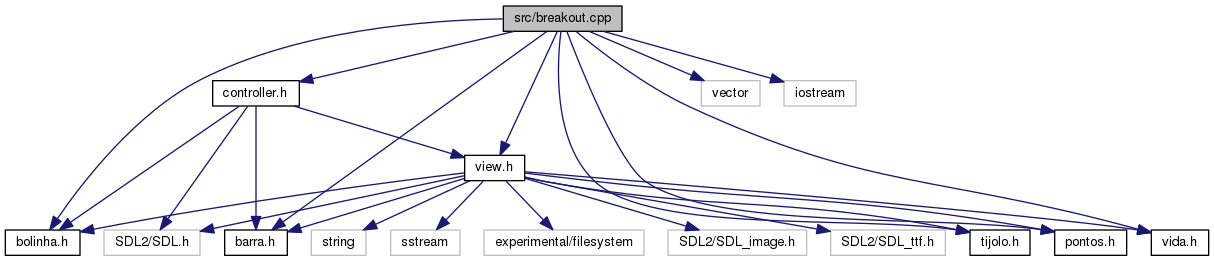
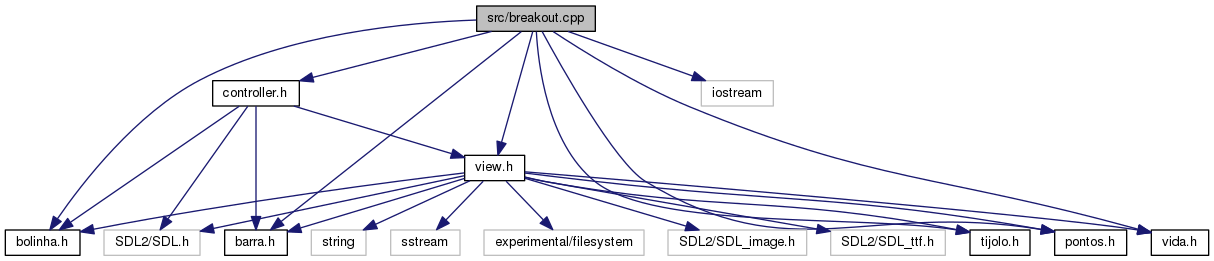
Atualiza o README

diff --git a/doc/html/view_8h_source.html b/doc/html/view_8h_source.html
@@ -91,12 +91,12 @@ var searchBox = new SearchBox("searchBox", "search",false,'Search');
 <a href="view_8h.html">Go to the documentation of this file.</a><div class="fragment"><div class="line"><a name="l00001"></a><span class="lineno">    1</span>&#160;<span class="preprocessor">#pragma once</span></div><div class="line"><a name="l00002"></a><span class="lineno">    2</span>&#160;</div><div class="line"><a name="l00003"></a><span class="lineno">    3</span>&#160;<span class="preprocessor">#include &lt;SDL2/SDL.h&gt;</span></div><div class="line"><a name="l00004"></a><span class="lineno">    4</span>&#160;<span class="preprocessor">#include &lt;SDL2/SDL_image.h&gt;</span></div><div class="line"><a name="l00005"></a><span class="lineno">    5</span>&#160;<span class="preprocessor">#include &lt;SDL2/SDL_ttf.h&gt;</span></div><div class="line"><a name="l00006"></a><span class="lineno">    6</span>&#160;<span class="preprocessor">#include &lt;string&gt;</span></div><div class="line"><a name="l00007"></a><span class="lineno">    7</span>&#160;<span class="preprocessor">#include &lt;sstream&gt;</span></div><div class="line"><a name="l00008"></a><span class="lineno">    8</span>&#160;<span class="preprocessor">#include &lt;experimental/filesystem&gt;</span></div><div class="line"><a name="l00009"></a><span class="lineno">    9</span>&#160;<span class="preprocessor">#include &quot;<a class="code" href="tijolo_8h.html">tijolo.h</a>&quot;</span></div><div class="line"><a name="l00010"></a><span class="lineno">   10</span>&#160;<span class="preprocessor">#include &quot;<a class="code" href="bolinha_8h.html">bolinha.h</a>&quot;</span></div><div class="line"><a name="l00011"></a><span class="lineno">   11</span>&#160;<span class="preprocessor">#include &quot;<a class="code" href="barra_8h.html">barra.h</a>&quot;</span></div><div class="line"><a name="l00012"></a><span class="lineno">   12</span>&#160;<span class="preprocessor">#include &quot;<a class="code" href="pontos_8h.html">pontos.h</a>&quot;</span></div><div class="line"><a name="l00013"></a><span class="lineno">   13</span>&#160;<span class="preprocessor">#include &quot;<a class="code" href="vida_8h.html">vida.h</a>&quot;</span></div><div class="line"><a name="l00014"></a><span class="lineno">   14</span>&#160;</div><div class="line"><a name="l00022"></a><span class="lineno"><a class="line" href="classview.html">   22</a></span>&#160;<span class="keyword">class </span><a class="code" href="classview.html">view</a>{</div><div class="line"><a name="l00023"></a><span class="lineno">   23</span>&#160;    <span class="keyword">private</span>:</div><div class="line"><a name="l00024"></a><span class="lineno">   24</span>&#160;        </div><div class="line"><a name="l00025"></a><span class="lineno"><a class="line" href="classview.html#a952fdfafefca2c0bfc8b17647a5706be">   25</a></span>&#160;        <a class="code" href="classtijolo.html">tijolo</a> *<a class="code" href="classview.html#a952fdfafefca2c0bfc8b17647a5706be">t</a>;      </div><div class="line"><a name="l00026"></a><span class="lineno"><a class="line" href="classview.html#a9d44d190dd69b906bfeaac4559ee454e">   26</a></span>&#160;        <a class="code" href="classbolinha.html">bolinha</a> *<a class="code" href="classview.html#a9d44d190dd69b906bfeaac4559ee454e">bo</a>;    </div><div class="line"><a name="l00027"></a><span class="lineno"><a class="line" href="classview.html#a0fd146110ca95e73f43c1dbda5a41294">   27</a></span>&#160;        <a class="code" href="classbarra.html">barra</a> *<a class="code" href="classview.html#a0fd146110ca95e73f43c1dbda5a41294">ba</a>;      </div><div class="line"><a name="l00028"></a><span class="lineno"><a class="line" href="classview.html#a8dc345a9799a79220ecca66c4cd3e8ff">   28</a></span>&#160;        <a class="code" href="classpontos.html">pontos</a>* <a class="code" href="classview.html#a8dc345a9799a79220ecca66c4cd3e8ff">po</a>;     </div><div class="line"><a name="l00029"></a><span class="lineno"><a class="line" href="classview.html#ae0f8e281f5f7937d84f435437ce03546">   29</a></span>&#160;        <a class="code" href="classvida.html">vida</a>* <a class="code" href="classview.html#ae0f8e281f5f7937d84f435437ce03546">v</a>;        </div><div class="line"><a name="l00031"></a><span class="lineno"><a class="line" href="classview.html#ade09c2dbabd1bf59ffaf625156c514f0">   31</a></span>&#160;        SDL_Window *<a class="code" href="classview.html#ade09c2dbabd1bf59ffaf625156c514f0">window</a>;</div><div class="line"><a name="l00032"></a><span class="lineno"><a class="line" href="classview.html#a8d7b3ec0a0641d24cdc3b04949f5df45">   32</a></span>&#160;        SDL_Renderer *<a class="code" href="classview.html#a8d7b3ec0a0641d24cdc3b04949f5df45">renderer</a>;</div><div class="line"><a name="l00033"></a><span class="lineno"><a class="line" href="classview.html#ae22fb0558e890ff6ace089b603e2d6d8">   33</a></span>&#160;        SDL_Rect <a class="code" href="classview.html#ae22fb0558e890ff6ace089b603e2d6d8">bloco</a>;</div><div class="line"><a name="l00034"></a><span class="lineno"><a class="line" href="classview.html#a49a628eedba666db008f8c07b96e3a51">   34</a></span>&#160;        SDL_Rect <a class="code" href="classview.html#a49a628eedba666db008f8c07b96e3a51">target</a>;</div><div class="line"><a name="l00035"></a><span class="lineno"><a class="line" href="classview.html#a72e360ef18105e2c565f17be3768027d">   35</a></span>&#160;        SDL_Rect <a class="code" href="classview.html#a72e360ef18105e2c565f17be3768027d">bol</a>;</div><div class="line"><a name="l00036"></a><span class="lineno"><a class="line" href="classview.html#a9c94bf9b55b5c24c5a9289d82a969ebb">   36</a></span>&#160;        SDL_Rect <a class="code" href="classview.html#a9c94bf9b55b5c24c5a9289d82a969ebb">bar</a>;</div><div class="line"><a name="l00037"></a><span class="lineno"><a class="line" href="classview.html#a6fd7fc350d9ad94dfd47e324b107e8ce">   37</a></span>&#160;        <span class="keyword">const</span> Uint8 *<a class="code" href="classview.html#a6fd7fc350d9ad94dfd47e324b107e8ce">state</a>;</div><div class="line"><a name="l00038"></a><span class="lineno"><a class="line" href="classview.html#ad17acebf948f7f42aa7cb8f88a38fe21">   38</a></span>&#160;        TTF_Font* <a class="code" href="classview.html#ad17acebf948f7f42aa7cb8f88a38fe21">Font</a>;</div><div class="line"><a name="l00039"></a><span class="lineno">   39</span>&#160;</div><div class="line"><a name="l00040"></a><span class="lineno"><a class="line" href="classview.html#af1b48d8a8f7f9e16800f9d842717ed2c">   40</a></span>&#160;        SDL_Rect <a class="code" href="classview.html#af1b48d8a8f7f9e16800f9d842717ed2c">Message_Vida_rect</a>;</div><div class="line"><a name="l00041"></a><span class="lineno"><a class="line" href="classview.html#aba853e73ed61ec0078ff6e56bb57e702">   41</a></span>&#160;        SDL_Rect <a class="code" href="classview.html#aba853e73ed61ec0078ff6e56bb57e702">Message_Fim_rect</a>;</div><div class="line"><a name="l00042"></a><span class="lineno"><a class="line" href="classview.html#ada3fc542a5e8b9d9e002665b37af781b">   42</a></span>&#160;        SDL_Rect <a class="code" href="classview.html#ada3fc542a5e8b9d9e002665b37af781b">Message_Pontos_rect</a>;</div><div class="line"><a name="l00043"></a><span class="lineno"><a class="line" href="classview.html#a1a7059536cb8e091ff7d4a4f2526bcce">   43</a></span>&#160;        SDL_Rect <a class="code" href="classview.html#a1a7059536cb8e091ff7d4a4f2526bcce">Message_VidaValue_rect</a>;</div><div class="line"><a name="l00044"></a><span class="lineno"><a class="line" href="classview.html#ade4cd2992600a54f7cb1f9f20876cd75">   44</a></span>&#160;        SDL_Rect <a class="code" href="classview.html#ade4cd2992600a54f7cb1f9f20876cd75">Message_PointValue_rect</a>;</div><div class="line"><a name="l00045"></a><span class="lineno">   45</span>&#160;</div><div class="line"><a name="l00046"></a><span class="lineno">   46</span>&#160;</div><div class="line"><a name="l00047"></a><span class="lineno">   47</span>&#160;</div><div class="line"><a name="l00048"></a><span class="lineno">   48</span>&#160;</div><div class="line"><a name="l00049"></a><span class="lineno">   49</span>&#160;</div><div class="line"><a name="l00050"></a><span class="lineno">   50</span>&#160;    <span class="keyword">public</span>:</div><div class="line"><a name="l00061"></a><span class="lineno">   61</span>&#160;        <a class="code" href="classview.html#a95b782bfe0890878f5740f63d7cd89ba">view</a>(<a class="code" href="classtijolo.html">tijolo</a>* t_, <a class="code" href="classbarra.html">barra</a>* ba_, <a class="code" href="classbolinha.html">bolinha</a>* bo_, <a class="code" href="classpontos.html">pontos</a>* po_, <a class="code" href="classvida.html">vida</a>* v_);</div><div class="line"><a name="l00062"></a><span class="lineno">   62</span>&#160;</div><div class="line"><a name="l00076"></a><span class="lineno">   76</span>&#160;        <span class="keywordtype">void</span> <a class="code" href="classview.html#afa73cff596b36c7009ee17383d039750">render_text</a>(SDL_Renderer *renderer,<span class="keywordtype">int</span> x, <span class="keywordtype">int</span> y,<span class="keyword">const</span> <span class="keywordtype">char</span> *text,TTF_Font *font,SDL_Rect *rect,SDL_Color *color);</div><div class="line"><a name="l00077"></a><span class="lineno">   77</span>&#160;</div><div class="line"><a name="l00082"></a><span class="lineno">   82</span>&#160;        <span class="keywordtype">int</span> <a class="code" href="classview.html#a21d953772b41dd9c08c9ea9895e002d7">init</a>();</div><div class="line"><a name="l00083"></a><span class="lineno">   83</span>&#160;</div><div class="line"><a name="l00088"></a><span class="lineno">   88</span>&#160;        <span class="keywordtype">void</span> <a class="code" href="classview.html#a91e9b24e39a9846a7093949c9a19a118">render</a>();</div><div class="line"><a name="l00089"></a><span class="lineno">   89</span>&#160;</div><div class="line"><a name="l00094"></a><span class="lineno">   94</span>&#160;        <span class="keywordtype">void</span> <a class="code" href="classview.html#ad8c046a243e52ee4f902abec6fbec9bb">quit</a>();</div><div class="line"><a name="l00095"></a><span class="lineno">   95</span>&#160;</div><div class="line"><a name="l00100"></a><span class="lineno">  100</span>&#160;        <span class="keywordtype">void</span> <a class="code" href="classview.html#a1839c52cc61779be195b51e4fddcb659">perdeu</a>();</div><div class="line"><a name="l00101"></a><span class="lineno">  101</span>&#160;</div><div class="line"><a name="l00106"></a><span class="lineno">  106</span>&#160;        <span class="keywordtype">void</span> <a class="code" href="classview.html#abbf5bc2a4455e61eb8155f8256a5d870">ganhou</a>();</div><div class="line"><a name="l00107"></a><span class="lineno">  107</span>&#160;</div><div class="line"><a name="l00114"></a><span class="lineno">  114</span>&#160;        <span class="keywordtype">int</span> <a class="code" href="classview.html#a257d50065961954053fbf5402b2e2968">quantidadeTijolos</a>();</div><div class="line"><a name="l00115"></a><span class="lineno">  115</span>&#160;</div><div class="line"><a name="l00116"></a><span class="lineno">  116</span>&#160;        SDL_Rect* <a class="code" href="classview.html#a4bf37f4171f4bb15c0e5b4ab8c2a9faa">getTarget</a>();</div><div class="line"><a name="l00117"></a><span class="lineno">  117</span>&#160;        SDL_Rect* <a class="code" href="classview.html#a8b12f1f06de39d6e9f70f54a9281e05c">getBloco</a>();</div><div class="line"><a name="l00118"></a><span class="lineno">  118</span>&#160;        SDL_Rect* <a class="code" href="classview.html#a8eb9d89d9b55a5d2ee529c96e0dc246a">getBolinha</a>();</div><div class="line"><a name="l00119"></a><span class="lineno">  119</span>&#160;        SDL_Rect* <a class="code" href="classview.html#a57b60e5da21e0484081d71c69ba4d03e">getBarra</a>();</div><div class="line"><a name="l00120"></a><span class="lineno">  120</span>&#160;        <a class="code" href="classtijolo.html">tijolo</a>* <a class="code" href="classview.html#ab159a52c699a49119e7dfd78384af275">getTijolos</a>();</div><div class="line"><a name="l00121"></a><span class="lineno">  121</span>&#160;        <a class="code" href="classpontos.html">pontos</a>* <a class="code" href="classview.html#a6cd53aa4df2642579992803a18f0bc8b">getPonto</a>();</div><div class="line"><a name="l00122"></a><span class="lineno">  122</span>&#160;        <a class="code" href="classvida.html">vida</a>* <a class="code" href="classview.html#aa33f3e6bf59ada95ee9fd0bff5af22c0">getVida</a>();</div><div class="line"><a name="l00123"></a><span class="lineno">  123</span>&#160;        <span class="keywordtype">int</span> <a class="code" href="classview.html#aba1c490d357bb58f4aa9218cb96b42b0">getWidth</a>();</div><div class="line"><a name="l00124"></a><span class="lineno">  124</span>&#160;        <span class="keywordtype">int</span> <a class="code" href="classview.html#af2cf0c4a4d7cd84f0155ae1ad6a51d0a">getHeigth</a>();</div><div class="line"><a name="l00125"></a><span class="lineno">  125</span>&#160;        <span class="keyword">const</span> Uint8* <a class="code" href="classview.html#a5dd0f6c8f5d5f9123353986607c7fb77">getState</a>();</div><div class="line"><a name="l00126"></a><span class="lineno">  126</span>&#160;</div><div class="line"><a name="l00127"></a><span class="lineno">  127</span>&#160;};</div><div class="ttc" id="classview_html_a9d44d190dd69b906bfeaac4559ee454e"><div class="ttname"><a href="classview.html#a9d44d190dd69b906bfeaac4559ee454e">view::bo</a></div><div class="ttdeci">bolinha * bo</div><div class="ttdef"><b>Definition:</b> view.h:26</div></div>
 <div class="ttc" id="classview_html_ade09c2dbabd1bf59ffaf625156c514f0"><div class="ttname"><a href="classview.html#ade09c2dbabd1bf59ffaf625156c514f0">view::window</a></div><div class="ttdeci">SDL_Window * window</div><div class="ttdef"><b>Definition:</b> view.h:31</div></div>
 <div class="ttc" id="classview_html_ab159a52c699a49119e7dfd78384af275"><div class="ttname"><a href="classview.html#ab159a52c699a49119e7dfd78384af275">view::getTijolos</a></div><div class="ttdeci">tijolo * getTijolos()</div><div class="ttdef"><b>Definition:</b> view.cpp:29</div></div>
-<div class="ttc" id="classview_html_ad8c046a243e52ee4f902abec6fbec9bb"><div class="ttname"><a href="classview.html#ad8c046a243e52ee4f902abec6fbec9bb">view::quit</a></div><div class="ttdeci">void quit()</div><div class="ttdoc">Encerramento. </div><div class="ttdef"><b>Definition:</b> view.cpp:218</div></div>
+<div class="ttc" id="classview_html_ad8c046a243e52ee4f902abec6fbec9bb"><div class="ttname"><a href="classview.html#ad8c046a243e52ee4f902abec6fbec9bb">view::quit</a></div><div class="ttdeci">void quit()</div><div class="ttdoc">Encerramento. </div><div class="ttdef"><b>Definition:</b> view.cpp:266</div></div>
 <div class="ttc" id="classview_html_a8dc345a9799a79220ecca66c4cd3e8ff"><div class="ttname"><a href="classview.html#a8dc345a9799a79220ecca66c4cd3e8ff">view::po</a></div><div class="ttdeci">pontos * po</div><div class="ttdef"><b>Definition:</b> view.h:28</div></div>
 <div class="ttc" id="classview_html_a0fd146110ca95e73f43c1dbda5a41294"><div class="ttname"><a href="classview.html#a0fd146110ca95e73f43c1dbda5a41294">view::ba</a></div><div class="ttdeci">barra * ba</div><div class="ttdef"><b>Definition:</b> view.h:27</div></div>
 <div class="ttc" id="classview_html_ada3fc542a5e8b9d9e002665b37af781b"><div class="ttname"><a href="classview.html#ada3fc542a5e8b9d9e002665b37af781b">view::Message_Pontos_rect</a></div><div class="ttdeci">SDL_Rect Message_Pontos_rect</div><div class="ttdef"><b>Definition:</b> view.h:42</div></div>
 <div class="ttc" id="classpontos_html"><div class="ttname"><a href="classpontos.html">pontos</a></div><div class="ttdoc">Classe para os pontos. </div><div class="ttdef"><b>Definition:</b> pontos.h:8</div></div>
-<div class="ttc" id="classview_html_a91e9b24e39a9846a7093949c9a19a118"><div class="ttname"><a href="classview.html#a91e9b24e39a9846a7093949c9a19a118">view::render</a></div><div class="ttdeci">void render()</div><div class="ttdoc">Renderizacao. </div><div class="ttdef"><b>Definition:</b> view.cpp:151</div></div>
+<div class="ttc" id="classview_html_a91e9b24e39a9846a7093949c9a19a118"><div class="ttname"><a href="classview.html#a91e9b24e39a9846a7093949c9a19a118">view::render</a></div><div class="ttdeci">void render()</div><div class="ttdoc">Renderizacao. </div><div class="ttdef"><b>Definition:</b> view.cpp:160</div></div>
 <div class="ttc" id="classview_html_a95b782bfe0890878f5740f63d7cd89ba"><div class="ttname"><a href="classview.html#a95b782bfe0890878f5740f63d7cd89ba">view::view</a></div><div class="ttdeci">view(tijolo *t_, barra *ba_, bolinha *bo_, pontos *po_, vida *v_)</div><div class="ttdoc">Construtor do view. </div><div class="ttdef"><b>Definition:</b> view.cpp:23</div></div>
 <div class="ttc" id="classview_html_af2cf0c4a4d7cd84f0155ae1ad6a51d0a"><div class="ttname"><a href="classview.html#af2cf0c4a4d7cd84f0155ae1ad6a51d0a">view::getHeigth</a></div><div class="ttdeci">int getHeigth()</div><div class="ttdef"><b>Definition:</b> view.cpp:35</div></div>
 <div class="ttc" id="classview_html_ad17acebf948f7f42aa7cb8f88a38fe21"><div class="ttname"><a href="classview.html#ad17acebf948f7f42aa7cb8f88a38fe21">view::Font</a></div><div class="ttdeci">TTF_Font * Font</div><div class="ttdef"><b>Definition:</b> view.h:38</div></div>
@@ -104,21 +104,21 @@ var searchBox = new SearchBox("searchBox", "search",false,'Search');
 <div class="ttc" id="classview_html_a8b12f1f06de39d6e9f70f54a9281e05c"><div class="ttname"><a href="classview.html#a8b12f1f06de39d6e9f70f54a9281e05c">view::getBloco</a></div><div class="ttdeci">SDL_Rect * getBloco()</div><div class="ttdef"><b>Definition:</b> view.cpp:26</div></div>
 <div class="ttc" id="classview_html_a8eb9d89d9b55a5d2ee529c96e0dc246a"><div class="ttname"><a href="classview.html#a8eb9d89d9b55a5d2ee529c96e0dc246a">view::getBolinha</a></div><div class="ttdeci">SDL_Rect * getBolinha()</div><div class="ttdef"><b>Definition:</b> view.cpp:27</div></div>
 <div class="ttc" id="classview_html_a1a7059536cb8e091ff7d4a4f2526bcce"><div class="ttname"><a href="classview.html#a1a7059536cb8e091ff7d4a4f2526bcce">view::Message_VidaValue_rect</a></div><div class="ttdeci">SDL_Rect Message_VidaValue_rect</div><div class="ttdef"><b>Definition:</b> view.h:43</div></div>
-<div class="ttc" id="classview_html_afa73cff596b36c7009ee17383d039750"><div class="ttname"><a href="classview.html#afa73cff596b36c7009ee17383d039750">view::render_text</a></div><div class="ttdeci">void render_text(SDL_Renderer *renderer, int x, int y, const char *text, TTF_Font *font, SDL_Rect *rect, SDL_Color *color)</div><div class="ttdoc">Renderiza um texto. </div><div class="ttdef"><b>Definition:</b> view.cpp:226</div></div>
+<div class="ttc" id="classview_html_afa73cff596b36c7009ee17383d039750"><div class="ttname"><a href="classview.html#afa73cff596b36c7009ee17383d039750">view::render_text</a></div><div class="ttdeci">void render_text(SDL_Renderer *renderer, int x, int y, const char *text, TTF_Font *font, SDL_Rect *rect, SDL_Color *color)</div><div class="ttdoc">Renderiza um texto. </div><div class="ttdef"><b>Definition:</b> view.cpp:230</div></div>
 <div class="ttc" id="vida_8h_html"><div class="ttname"><a href="vida_8h.html">vida.h</a></div></div>
 <div class="ttc" id="bolinha_8h_html"><div class="ttname"><a href="bolinha_8h.html">bolinha.h</a></div></div>
-<div class="ttc" id="classview_html_abbf5bc2a4455e61eb8155f8256a5d870"><div class="ttname"><a href="classview.html#abbf5bc2a4455e61eb8155f8256a5d870">view::ganhou</a></div><div class="ttdeci">void ganhou()</div><div class="ttdoc">Vitoria. </div><div class="ttdef"><b>Definition:</b> view.cpp:204</div></div>
+<div class="ttc" id="classview_html_abbf5bc2a4455e61eb8155f8256a5d870"><div class="ttname"><a href="classview.html#abbf5bc2a4455e61eb8155f8256a5d870">view::ganhou</a></div><div class="ttdeci">void ganhou()</div><div class="ttdoc">Vitoria. </div><div class="ttdef"><b>Definition:</b> view.cpp:216</div></div>
 <div class="ttc" id="classbarra_html"><div class="ttname"><a href="classbarra.html">barra</a></div><div class="ttdoc">Classe para a barra. </div><div class="ttdef"><b>Definition:</b> barra.h:11</div></div>
 <div class="ttc" id="classvida_html"><div class="ttname"><a href="classvida.html">vida</a></div><div class="ttdoc">Classe para os pontos. </div><div class="ttdef"><b>Definition:</b> vida.h:8</div></div>
 <div class="ttc" id="classview_html_a49a628eedba666db008f8c07b96e3a51"><div class="ttname"><a href="classview.html#a49a628eedba666db008f8c07b96e3a51">view::target</a></div><div class="ttdeci">SDL_Rect target</div><div class="ttdef"><b>Definition:</b> view.h:34</div></div>
 <div class="ttc" id="classview_html_aba853e73ed61ec0078ff6e56bb57e702"><div class="ttname"><a href="classview.html#aba853e73ed61ec0078ff6e56bb57e702">view::Message_Fim_rect</a></div><div class="ttdeci">SDL_Rect Message_Fim_rect</div><div class="ttdef"><b>Definition:</b> view.h:41</div></div>
-<div class="ttc" id="classview_html_a257d50065961954053fbf5402b2e2968"><div class="ttname"><a href="classview.html#a257d50065961954053fbf5402b2e2968">view::quantidadeTijolos</a></div><div class="ttdeci">int quantidadeTijolos()</div><div class="ttdoc">Tijolos na tela. </div><div class="ttdef"><b>Definition:</b> view.cpp:252</div></div>
+<div class="ttc" id="classview_html_a257d50065961954053fbf5402b2e2968"><div class="ttname"><a href="classview.html#a257d50065961954053fbf5402b2e2968">view::quantidadeTijolos</a></div><div class="ttdeci">int quantidadeTijolos()</div><div class="ttdoc">Tijolos na tela. </div><div class="ttdef"><b>Definition:</b> view.cpp:255</div></div>
 <div class="ttc" id="classview_html_a5dd0f6c8f5d5f9123353986607c7fb77"><div class="ttname"><a href="classview.html#a5dd0f6c8f5d5f9123353986607c7fb77">view::getState</a></div><div class="ttdeci">const Uint8 * getState()</div><div class="ttdef"><b>Definition:</b> view.cpp:38</div></div>
 <div class="ttc" id="classview_html_ae0f8e281f5f7937d84f435437ce03546"><div class="ttname"><a href="classview.html#ae0f8e281f5f7937d84f435437ce03546">view::v</a></div><div class="ttdeci">vida * v</div><div class="ttdef"><b>Definition:</b> view.h:29</div></div>
 <div class="ttc" id="classtijolo_html"><div class="ttname"><a href="classtijolo.html">tijolo</a></div><div class="ttdoc">Classe para os pontos. </div><div class="ttdef"><b>Definition:</b> tijolo.h:8</div></div>
 <div class="ttc" id="classview_html_ae22fb0558e890ff6ace089b603e2d6d8"><div class="ttname"><a href="classview.html#ae22fb0558e890ff6ace089b603e2d6d8">view::bloco</a></div><div class="ttdeci">SDL_Rect bloco</div><div class="ttdef"><b>Definition:</b> view.h:33</div></div>
 <div class="ttc" id="classbolinha_html"><div class="ttname"><a href="classbolinha.html">bolinha</a></div><div class="ttdoc">Classe para a bolinha. </div><div class="ttdef"><b>Definition:</b> bolinha.h:11</div></div>
-<div class="ttc" id="classview_html_a21d953772b41dd9c08c9ea9895e002d7"><div class="ttname"><a href="classview.html#a21d953772b41dd9c08c9ea9895e002d7">view::init</a></div><div class="ttdeci">int init()</div><div class="ttdoc">Rotina de inicializacao. </div><div class="ttdef"><b>Definition:</b> view.cpp:40</div></div>
+<div class="ttc" id="classview_html_a21d953772b41dd9c08c9ea9895e002d7"><div class="ttname"><a href="classview.html#a21d953772b41dd9c08c9ea9895e002d7">view::init</a></div><div class="ttdeci">int init()</div><div class="ttdoc">Rotina de inicializacao. </div><div class="ttdef"><b>Definition:</b> view.cpp:42</div></div>
 <div class="ttc" id="pontos_8h_html"><div class="ttname"><a href="pontos_8h.html">pontos.h</a></div></div>
 <div class="ttc" id="classview_html_a952fdfafefca2c0bfc8b17647a5706be"><div class="ttname"><a href="classview.html#a952fdfafefca2c0bfc8b17647a5706be">view::t</a></div><div class="ttdeci">tijolo * t</div><div class="ttdef"><b>Definition:</b> view.h:25</div></div>
 <div class="ttc" id="classview_html_a9c94bf9b55b5c24c5a9289d82a969ebb"><div class="ttname"><a href="classview.html#a9c94bf9b55b5c24c5a9289d82a969ebb">view::bar</a></div><div class="ttdeci">SDL_Rect bar</div><div class="ttdef"><b>Definition:</b> view.h:36</div></div>
@@ -131,7 +131,7 @@ var searchBox = new SearchBox("searchBox", "search",false,'Search');
 <div class="ttc" id="tijolo_8h_html"><div class="ttname"><a href="tijolo_8h.html">tijolo.h</a></div></div>
 <div class="ttc" id="classview_html_a57b60e5da21e0484081d71c69ba4d03e"><div class="ttname"><a href="classview.html#a57b60e5da21e0484081d71c69ba4d03e">view::getBarra</a></div><div class="ttdeci">SDL_Rect * getBarra()</div><div class="ttdef"><b>Definition:</b> view.cpp:28</div></div>
 <div class="ttc" id="classview_html_a8d7b3ec0a0641d24cdc3b04949f5df45"><div class="ttname"><a href="classview.html#a8d7b3ec0a0641d24cdc3b04949f5df45">view::renderer</a></div><div class="ttdeci">SDL_Renderer * renderer</div><div class="ttdef"><b>Definition:</b> view.h:32</div></div>
-<div class="ttc" id="classview_html_a1839c52cc61779be195b51e4fddcb659"><div class="ttname"><a href="classview.html#a1839c52cc61779be195b51e4fddcb659">view::perdeu</a></div><div class="ttdeci">void perdeu()</div><div class="ttdoc">Derrota. </div><div class="ttdef"><b>Definition:</b> view.cpp:189</div></div>
+<div class="ttc" id="classview_html_a1839c52cc61779be195b51e4fddcb659"><div class="ttname"><a href="classview.html#a1839c52cc61779be195b51e4fddcb659">view::perdeu</a></div><div class="ttdeci">void perdeu()</div><div class="ttdoc">Derrota. </div><div class="ttdef"><b>Definition:</b> view.cpp:203</div></div>
 <div class="ttc" id="classview_html_af1b48d8a8f7f9e16800f9d842717ed2c"><div class="ttname"><a href="classview.html#af1b48d8a8f7f9e16800f9d842717ed2c">view::Message_Vida_rect</a></div><div class="ttdeci">SDL_Rect Message_Vida_rect</div><div class="ttdef"><b>Definition:</b> view.h:40</div></div>
 <div class="ttc" id="classview_html"><div class="ttname"><a href="classview.html">view</a></div><div class="ttdoc">Classe para o view. </div><div class="ttdef"><b>Definition:</b> view.h:22</div></div>
 <div class="ttc" id="classview_html_a72e360ef18105e2c565f17be3768027d"><div class="ttname"><a href="classview.html#a72e360ef18105e2c565f17be3768027d">view::bol</a></div><div class="ttdeci">SDL_Rect bol</div><div class="ttdef"><b>Definition:</b> view.h:35</div></div>

diff --git a/doc/html/controller_8h_source.html b/doc/html/controller_8h_source.html
@@ -90,18 +90,18 @@ var searchBox = new SearchBox("searchBox", "search",false,'Search');
 <div class="contents">
 <a href="controller_8h.html">Go to the documentation of this file.</a><div class="fragment"><div class="line"><a name="l00001"></a><span class="lineno">    1</span>&#160;<span class="preprocessor">#pragma once</span></div><div class="line"><a name="l00002"></a><span class="lineno">    2</span>&#160;<span class="preprocessor">#include &quot;<a class="code" href="barra_8h.html">barra.h</a>&quot;</span></div><div class="line"><a name="l00003"></a><span class="lineno">    3</span>&#160;<span class="preprocessor">#include &quot;<a class="code" href="view_8h.html">view.h</a>&quot;</span></div><div class="line"><a name="l00004"></a><span class="lineno">    4</span>&#160;<span class="preprocessor">#include &quot;<a class="code" href="bolinha_8h.html">bolinha.h</a>&quot;</span></div><div class="line"><a name="l00005"></a><span class="lineno">    5</span>&#160;<span class="preprocessor">#include &lt;SDL2/SDL.h&gt;</span></div><div class="line"><a name="l00006"></a><span class="lineno">    6</span>&#160;</div><div class="line"><a name="l00016"></a><span class="lineno"><a class="line" href="classcontroller.html">   16</a></span>&#160;<span class="keyword">class </span><a class="code" href="classcontroller.html">controller</a>{</div><div class="line"><a name="l00017"></a><span class="lineno">   17</span>&#160;    </div><div class="line"><a name="l00018"></a><span class="lineno">   18</span>&#160;    <span class="keyword">private</span>:</div><div class="line"><a name="l00019"></a><span class="lineno"><a class="line" href="classcontroller.html#a6ff845413a797ed4beff34d3cb6b7774">   19</a></span>&#160;        <a class="code" href="classview.html">view</a> &amp;<a class="code" href="classcontroller.html#a6ff845413a797ed4beff34d3cb6b7774">v</a>;        </div><div class="line"><a name="l00020"></a><span class="lineno"><a class="line" href="classcontroller.html#af46499f5a9ef1afc0c95d899fb128aa1">   20</a></span>&#160;        <a class="code" href="classbarra.html">barra</a>* <a class="code" href="classcontroller.html#af46499f5a9ef1afc0c95d899fb128aa1">ba</a>;      </div><div class="line"><a name="l00021"></a><span class="lineno"><a class="line" href="classcontroller.html#ae3e29aaa568c3d374b65416fd49649c5">   21</a></span>&#160;        <a class="code" href="classbolinha.html">bolinha</a>* <a class="code" href="classcontroller.html#ae3e29aaa568c3d374b65416fd49649c5">bo</a>;    </div><div class="line"><a name="l00022"></a><span class="lineno"><a class="line" href="classcontroller.html#ab7bee2a38038001992ab877caccc1a47">   22</a></span>&#160;        <span class="keywordtype">int</span> <a class="code" href="classcontroller.html#ab7bee2a38038001992ab877caccc1a47">dirX</a> = 5;   </div><div class="line"><a name="l00023"></a><span class="lineno"><a class="line" href="classcontroller.html#a136888a5f98296f5266a01330e2881e7">   23</a></span>&#160;        <span class="keywordtype">int</span> <a class="code" href="classcontroller.html#a136888a5f98296f5266a01330e2881e7">dirY</a> = 5;   </div><div class="line"><a name="l00024"></a><span class="lineno"><a class="line" href="classcontroller.html#ae1229353be5404b8decda1e8775292c4">   24</a></span>&#160;        <span class="keywordtype">int</span> <a class="code" href="classcontroller.html#ae1229353be5404b8decda1e8775292c4">veloc</a> = 10; </div><div class="line"><a name="l00026"></a><span class="lineno">   26</span>&#160;    <span class="keyword">public</span>:</div><div class="line"><a name="l00035"></a><span class="lineno"><a class="line" href="classcontroller.html#a5179368251d444a67542bf506ffa6b9c">   35</a></span>&#160;        <a class="code" href="classcontroller.html#a5179368251d444a67542bf506ffa6b9c">controller</a>(<a class="code" href="classview.html">view</a> &amp;v_, <a class="code" href="classbarra.html">barra</a>* ba_, <a class="code" href="classbolinha.html">bolinha</a>* bo_): ba(ba_), v(v_), bo(bo_){}</div><div class="line"><a name="l00036"></a><span class="lineno">   36</span>&#160;</div><div class="line"><a name="l00041"></a><span class="lineno">   41</span>&#160;        <span class="keywordtype">void</span> <a class="code" href="classcontroller.html#ac0373785a91924ce3d480c1c7dedbd99">update</a>();</div><div class="line"><a name="l00042"></a><span class="lineno">   42</span>&#160;</div><div class="line"><a name="l00049"></a><span class="lineno">   49</span>&#160;        <span class="keywordtype">bool</span> <a class="code" href="classcontroller.html#aaaef2bd34f643183bcd6fad64bea1005">colisaoBarra</a>();</div><div class="line"><a name="l00050"></a><span class="lineno">   50</span>&#160;</div><div class="line"><a name="l00058"></a><span class="lineno">   58</span>&#160;        <span class="keywordtype">bool</span> <a class="code" href="classcontroller.html#ac227dd1b72111d1c6da3362d60aa25d6">colisaoBloco</a>();</div><div class="line"><a name="l00059"></a><span class="lineno">   59</span>&#160;</div><div class="line"><a name="l00067"></a><span class="lineno">   67</span>&#160;        <span class="keywordtype">void</span> <a class="code" href="classcontroller.html#a03872ff488ab704038e14226a8e031ea">start</a>();</div><div class="line"><a name="l00068"></a><span class="lineno">   68</span>&#160;</div><div class="line"><a name="l00076"></a><span class="lineno">   76</span>&#160;        <span class="keywordtype">bool</span> <a class="code" href="classcontroller.html#a993c5fe7272f0435b4018f4b5d1fc1cb">finish</a>();</div><div class="line"><a name="l00077"></a><span class="lineno">   77</span>&#160;};</div><div class="ttc" id="classcontroller_html"><div class="ttname"><a href="classcontroller.html">controller</a></div><div class="ttdoc">Classe para o controller. </div><div class="ttdef"><b>Definition:</b> controller.h:16</div></div>
 <div class="ttc" id="classcontroller_html_ae1229353be5404b8decda1e8775292c4"><div class="ttname"><a href="classcontroller.html#ae1229353be5404b8decda1e8775292c4">controller::veloc</a></div><div class="ttdeci">int veloc</div><div class="ttdef"><b>Definition:</b> controller.h:24</div></div>
-<div class="ttc" id="classcontroller_html_a993c5fe7272f0435b4018f4b5d1fc1cb"><div class="ttname"><a href="classcontroller.html#a993c5fe7272f0435b4018f4b5d1fc1cb">controller::finish</a></div><div class="ttdeci">bool finish()</div><div class="ttdoc">Finaliza o jogo. </div><div class="ttdef"><b>Definition:</b> controller.cpp:166</div></div>
+<div class="ttc" id="classcontroller_html_a993c5fe7272f0435b4018f4b5d1fc1cb"><div class="ttname"><a href="classcontroller.html#a993c5fe7272f0435b4018f4b5d1fc1cb">controller::finish</a></div><div class="ttdeci">bool finish()</div><div class="ttdoc">Finaliza o jogo. </div><div class="ttdef"><b>Definition:</b> controller.cpp:165</div></div>
 <div class="ttc" id="classcontroller_html_af46499f5a9ef1afc0c95d899fb128aa1"><div class="ttname"><a href="classcontroller.html#af46499f5a9ef1afc0c95d899fb128aa1">controller::ba</a></div><div class="ttdeci">barra * ba</div><div class="ttdef"><b>Definition:</b> controller.h:20</div></div>
 <div class="ttc" id="classcontroller_html_ae3e29aaa568c3d374b65416fd49649c5"><div class="ttname"><a href="classcontroller.html#ae3e29aaa568c3d374b65416fd49649c5">controller::bo</a></div><div class="ttdeci">bolinha * bo</div><div class="ttdef"><b>Definition:</b> controller.h:21</div></div>
-<div class="ttc" id="classcontroller_html_aaaef2bd34f643183bcd6fad64bea1005"><div class="ttname"><a href="classcontroller.html#aaaef2bd34f643183bcd6fad64bea1005">controller::colisaoBarra</a></div><div class="ttdeci">bool colisaoBarra()</div><div class="ttdoc">Colisao barra/bolinha. </div><div class="ttdef"><b>Definition:</b> controller.cpp:70</div></div>
+<div class="ttc" id="classcontroller_html_aaaef2bd34f643183bcd6fad64bea1005"><div class="ttname"><a href="classcontroller.html#aaaef2bd34f643183bcd6fad64bea1005">controller::colisaoBarra</a></div><div class="ttdeci">bool colisaoBarra()</div><div class="ttdoc">Colisao barra/bolinha. </div><div class="ttdef"><b>Definition:</b> controller.cpp:78</div></div>
 <div class="ttc" id="bolinha_8h_html"><div class="ttname"><a href="bolinha_8h.html">bolinha.h</a></div></div>
 <div class="ttc" id="view_8h_html"><div class="ttname"><a href="view_8h.html">view.h</a></div></div>
 <div class="ttc" id="classbarra_html"><div class="ttname"><a href="classbarra.html">barra</a></div><div class="ttdoc">Classe para a barra. </div><div class="ttdef"><b>Definition:</b> barra.h:11</div></div>
 <div class="ttc" id="classcontroller_html_ac0373785a91924ce3d480c1c7dedbd99"><div class="ttname"><a href="classcontroller.html#ac0373785a91924ce3d480c1c7dedbd99">controller::update</a></div><div class="ttdeci">void update()</div><div class="ttdoc">Metodo de acao. </div><div class="ttdef"><b>Definition:</b> controller.cpp:4</div></div>
 <div class="ttc" id="classcontroller_html_ab7bee2a38038001992ab877caccc1a47"><div class="ttname"><a href="classcontroller.html#ab7bee2a38038001992ab877caccc1a47">controller::dirX</a></div><div class="ttdeci">int dirX</div><div class="ttdef"><b>Definition:</b> controller.h:22</div></div>
 <div class="ttc" id="classcontroller_html_a5179368251d444a67542bf506ffa6b9c"><div class="ttname"><a href="classcontroller.html#a5179368251d444a67542bf506ffa6b9c">controller::controller</a></div><div class="ttdeci">controller(view &amp;v_, barra *ba_, bolinha *bo_)</div><div class="ttdoc">Construtor do controller. </div><div class="ttdef"><b>Definition:</b> controller.h:35</div></div>
-<div class="ttc" id="classcontroller_html_a03872ff488ab704038e14226a8e031ea"><div class="ttname"><a href="classcontroller.html#a03872ff488ab704038e14226a8e031ea">controller::start</a></div><div class="ttdeci">void start()</div><div class="ttdoc">Inicia o jogo. </div><div class="ttdef"><b>Definition:</b> controller.cpp:159</div></div>
-<div class="ttc" id="classcontroller_html_ac227dd1b72111d1c6da3362d60aa25d6"><div class="ttname"><a href="classcontroller.html#ac227dd1b72111d1c6da3362d60aa25d6">controller::colisaoBloco</a></div><div class="ttdeci">bool colisaoBloco()</div><div class="ttdoc">Colisao blocos/bolinha. </div><div class="ttdef"><b>Definition:</b> controller.cpp:105</div></div>
+<div class="ttc" id="classcontroller_html_a03872ff488ab704038e14226a8e031ea"><div class="ttname"><a href="classcontroller.html#a03872ff488ab704038e14226a8e031ea">controller::start</a></div><div class="ttdeci">void start()</div><div class="ttdoc">Inicia o jogo. </div><div class="ttdef"><b>Definition:</b> controller.cpp:156</div></div>
+<div class="ttc" id="classcontroller_html_ac227dd1b72111d1c6da3362d60aa25d6"><div class="ttname"><a href="classcontroller.html#ac227dd1b72111d1c6da3362d60aa25d6">controller::colisaoBloco</a></div><div class="ttdeci">bool colisaoBloco()</div><div class="ttdoc">Colisao blocos/bolinha. </div><div class="ttdef"><b>Definition:</b> controller.cpp:107</div></div>
 <div class="ttc" id="classbolinha_html"><div class="ttname"><a href="classbolinha.html">bolinha</a></div><div class="ttdoc">Classe para a bolinha. </div><div class="ttdef"><b>Definition:</b> bolinha.h:11</div></div>
 <div class="ttc" id="classcontroller_html_a136888a5f98296f5266a01330e2881e7"><div class="ttname"><a href="classcontroller.html#a136888a5f98296f5266a01330e2881e7">controller::dirY</a></div><div class="ttdeci">int dirY</div><div class="ttdef"><b>Definition:</b> controller.h:23</div></div>
 <div class="ttc" id="barra_8h_html"><div class="ttname"><a href="barra_8h.html">barra.h</a></div></div>

diff --git a/doc/html/breakout_8cpp.html b/doc/html/breakout_8cpp.html
@@ -97,7 +97,6 @@ var searchBox = new SearchBox("searchBox", "search",false,'Search');
 <code>#include &quot;<a class="el" href="barra_8h_source.html">barra.h</a>&quot;</code><br />
 <code>#include &quot;<a class="el" href="pontos_8h_source.html">pontos.h</a>&quot;</code><br />
 <code>#include &quot;<a class="el" href="vida_8h_source.html">vida.h</a>&quot;</code><br />
-<code>#include &lt;vector&gt;</code><br />
 <code>#include &lt;iostream&gt;</code><br />
 </div><div class="textblock"><div class="dynheader">
 Include dependency graph for breakout.cpp:</div>

diff --git a/doc/html/classbolinha.html b/doc/html/classbolinha.html
@@ -98,8 +98,6 @@ var searchBox = new SearchBox("searchBox", "search",false,'Search');
 Collaboration diagram for bolinha:</div>
 <div class="dyncontent">
 <div class="center"><img src="classbolinha__coll__graph.png" border="0" usemap="#bolinha_coll__map" alt="Collaboration graph"/></div>
-<map name="bolinha_coll__map" id="bolinha_coll__map">
-</map>
 </div>
 <table class="memberdecls">
 <tr class="heading"><td colspan="2"><h2 class="groupheader"><a name="pub-methods"></a>

diff --git a/doc/html/classpontos.html b/doc/html/classpontos.html
@@ -98,8 +98,6 @@ var searchBox = new SearchBox("searchBox", "search",false,'Search');
 Collaboration diagram for pontos:</div>
 <div class="dyncontent">
 <div class="center"><img src="classpontos__coll__graph.png" border="0" usemap="#pontos_coll__map" alt="Collaboration graph"/></div>
-<map name="pontos_coll__map" id="pontos_coll__map">
-</map>
 </div>
 <table class="memberdecls">
 <tr class="heading"><td colspan="2"><h2 class="groupheader"><a name="pub-methods"></a>

diff --git a/doc/html/classtijolo.html b/doc/html/classtijolo.html
@@ -98,8 +98,6 @@ var searchBox = new SearchBox("searchBox", "search",false,'Search');
 Collaboration diagram for tijolo:</div>
 <div class="dyncontent">
 <div class="center"><img src="classtijolo__coll__graph.png" border="0" usemap="#tijolo_coll__map" alt="Collaboration graph"/></div>
-<map name="tijolo_coll__map" id="tijolo_coll__map">
-</map>
 </div>
 <table class="memberdecls">
 <tr class="heading"><td colspan="2"><h2 class="groupheader"><a name="pub-methods"></a>

diff --git a/doc/html/classbarra.html b/doc/html/classbarra.html
@@ -98,8 +98,6 @@ var searchBox = new SearchBox("searchBox", "search",false,'Search');
 Collaboration diagram for barra:</div>
 <div class="dyncontent">
 <div class="center"><img src="classbarra__coll__graph.png" border="0" usemap="#barra_coll__map" alt="Collaboration graph"/></div>
-<map name="barra_coll__map" id="barra_coll__map">
-</map>
 </div>
 <table class="memberdecls">
 <tr class="heading"><td colspan="2"><h2 class="groupheader"><a name="pub-methods"></a>

diff --git a/doc/html/classvida.html b/doc/html/classvida.html
@@ -98,8 +98,6 @@ var searchBox = new SearchBox("searchBox", "search",false,'Search');
 Collaboration diagram for vida:</div>
 <div class="dyncontent">
 <div class="center"><img src="classvida__coll__graph.png" border="0" usemap="#vida_coll__map" alt="Collaboration graph"/></div>
-<map name="vida_coll__map" id="vida_coll__map">
-</map>
 </div>
 <table class="memberdecls">
 <tr class="heading"><td colspan="2"><h2 class="groupheader"><a name="pub-methods"></a>

diff --git a/doc/html/classcontroller.html b/doc/html/classcontroller.html
@@ -252,7 +252,7 @@ Private Attributes</h2></td></tr>
 </div><div class="memdoc">
 
 <p>Finaliza o jogo. </p>
-<p>checa se uma tecla previamente estabelecida foi pressionada, encerrando a execução e fechando o programa (Tecla Q) </p>
+<p>checa se uma tecla previamente estabelecida foi pressionada, encerrando a execução e fechando o programa (Tecla Esc) </p>
 
 </div>
 </div>

diff --git a/doc/latex/classcontroller.tex b/doc/latex/classcontroller.tex
@@ -11,8 +11,7 @@ Classe para o controller.
 
 
 
-Collaboration diagram for controller\+:
-\nopagebreak
+Collaboration diagram for controller\+:\nopagebreak
 \begin{figure}[H]
 \begin{center}
 \leavevmode
@@ -127,7 +126,7 @@ retorna true caso haja colisao
 
 Finaliza o jogo. 
 
-checa se uma tecla previamente estabelecida foi pressionada, encerrando a execução e fechando o programa (Tecla Q) \index{controller@{controller}!start@{start}}
+checa se uma tecla previamente estabelecida foi pressionada, encerrando a execução e fechando o programa (Tecla Esc) \index{controller@{controller}!start@{start}}
 \index{start@{start}!controller@{controller}}
 \subsubsection[{\texorpdfstring{start()}{start()}}]{\setlength{\rightskip}{0pt plus 5cm}void controller\+::start (
 \begin{DoxyParamCaption}

diff --git a/doc/latex/controller_8h.tex b/doc/latex/controller_8h.tex
@@ -4,16 +4,14 @@
 {\ttfamily \#include \char`\"{}view.\+h\char`\"{}}\\*
 {\ttfamily \#include \char`\"{}bolinha.\+h\char`\"{}}\\*
 {\ttfamily \#include $<$S\+D\+L2/\+S\+D\+L.\+h$>$}\\*
-Include dependency graph for controller.\+h\+:
-\nopagebreak
+Include dependency graph for controller.\+h\+:\nopagebreak
 \begin{figure}[H]
 \begin{center}
 \leavevmode
 \includegraphics[width=350pt]{controller_8h__incl}
 \end{center}
 \end{figure}
-This graph shows which files directly or indirectly include this file\+:
-\nopagebreak
+This graph shows which files directly or indirectly include this file\+:\nopagebreak
 \begin{figure}[H]
 \begin{center}
 \leavevmode

diff --git a/doc/latex/view_8h.tex b/doc/latex/view_8h.tex
@@ -11,16 +11,14 @@
 {\ttfamily \#include \char`\"{}barra.\+h\char`\"{}}\\*
 {\ttfamily \#include \char`\"{}pontos.\+h\char`\"{}}\\*
 {\ttfamily \#include \char`\"{}vida.\+h\char`\"{}}\\*
-Include dependency graph for view.\+h\+:
-\nopagebreak
+Include dependency graph for view.\+h\+:\nopagebreak
 \begin{figure}[H]
 \begin{center}
 \leavevmode
 \includegraphics[width=350pt]{view_8h__incl}
 \end{center}
 \end{figure}
-This graph shows which files directly or indirectly include this file\+:
-\nopagebreak
+This graph shows which files directly or indirectly include this file\+:\nopagebreak
 \begin{figure}[H]
 \begin{center}
 \leavevmode
